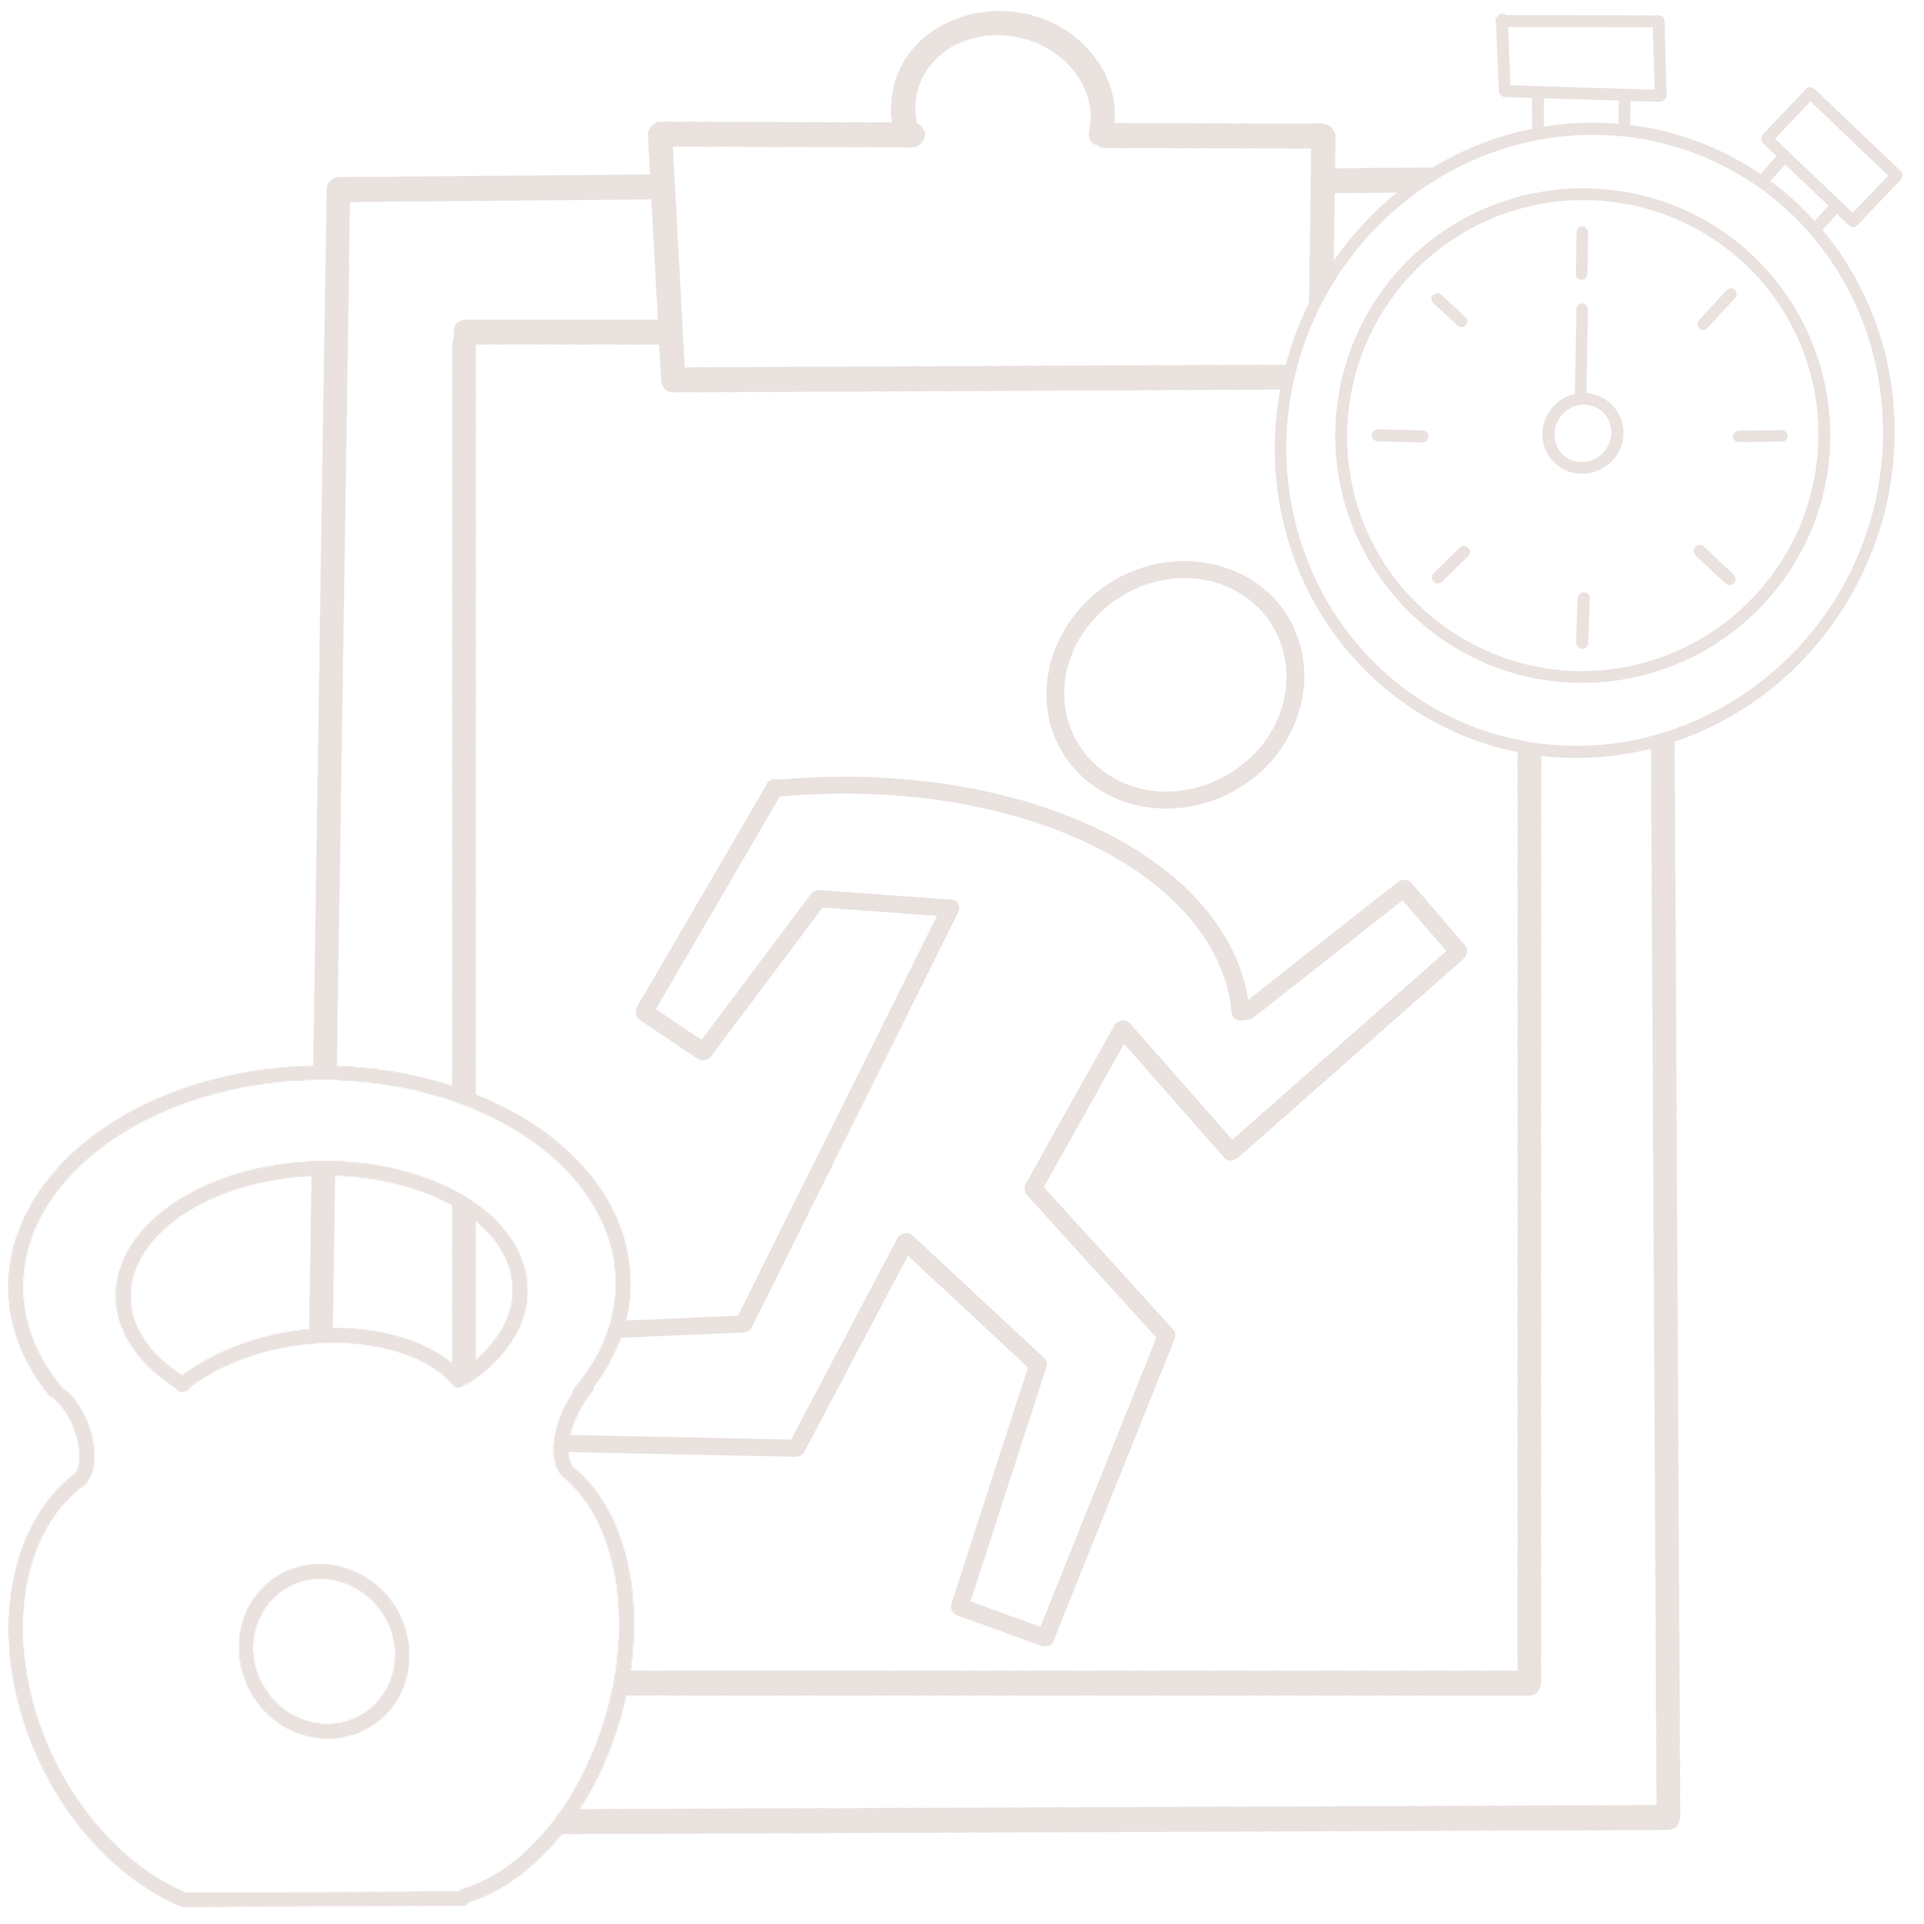
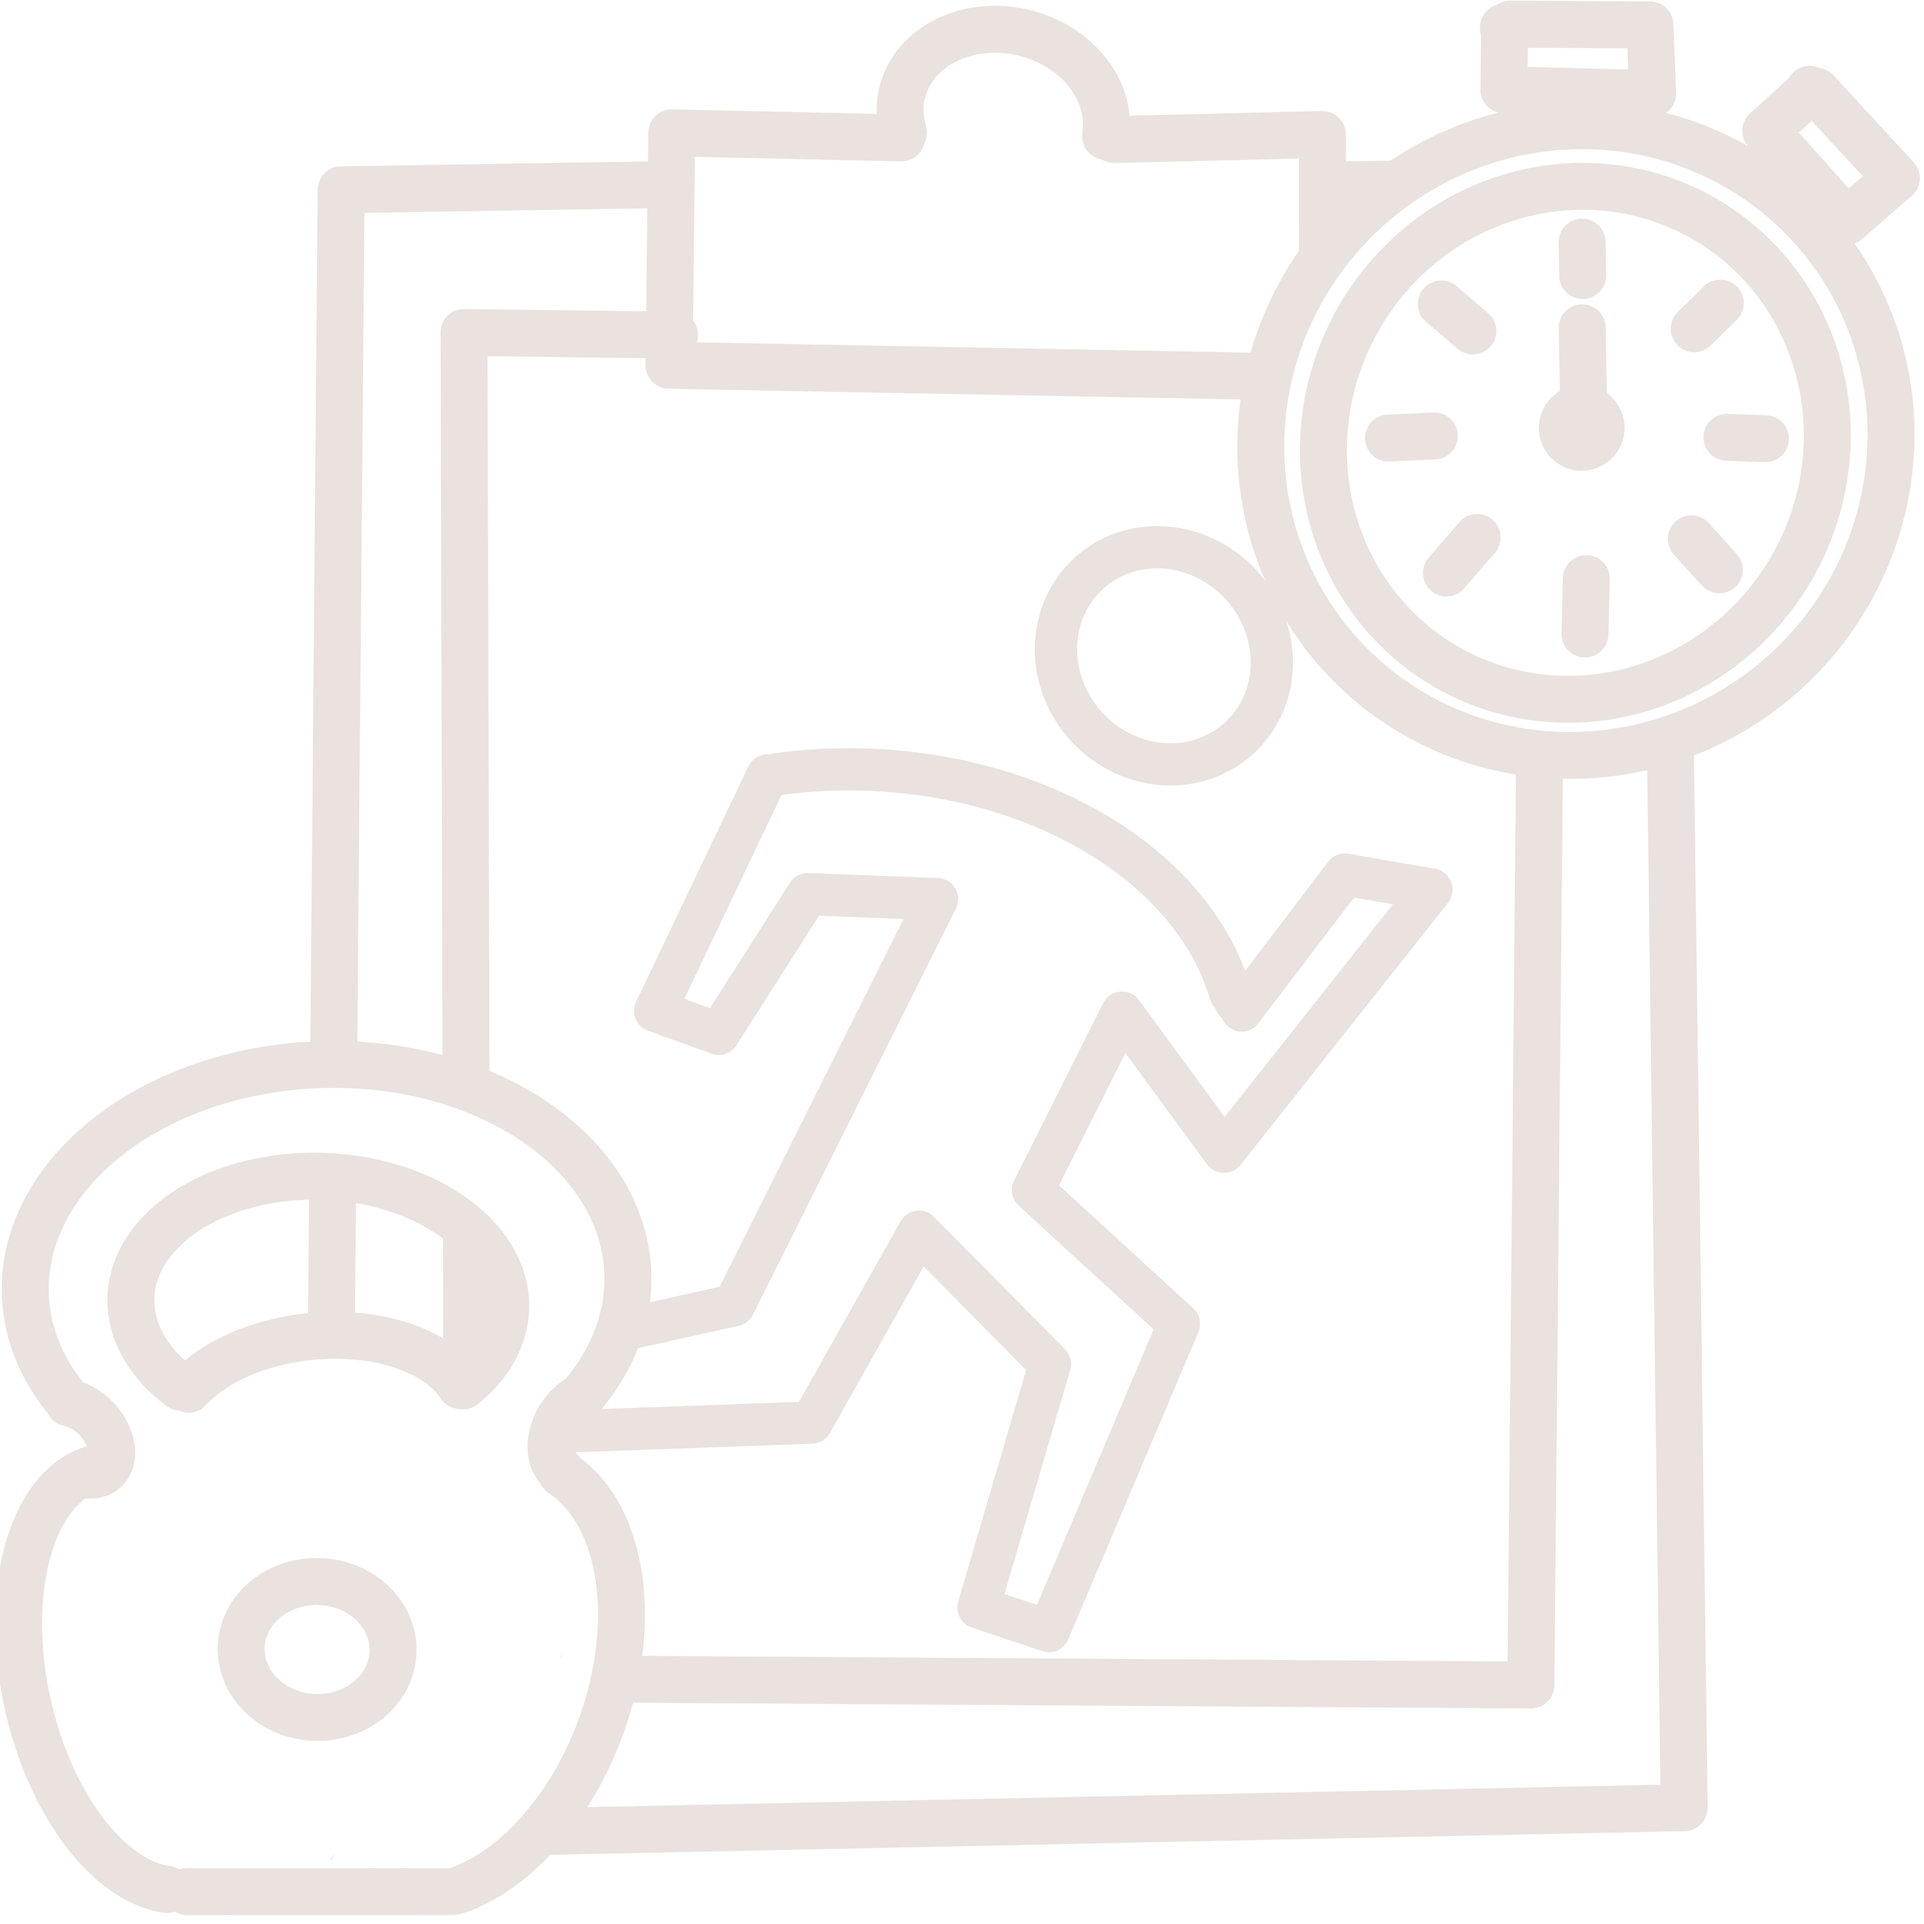
working on height of rows in column 1 of profile page

Changed region(s): [[0.0, 0.0, 1.0, 1.0], [0.0938, 0.8125, 0.2188, 0.9062]]

diff --git a/src/CSS/profile.css b/src/CSS/profile.css
@@ -5,15 +5,16 @@
 
 .profile-grid {
     display: grid;
-    grid-template-columns: minmax(0, 1fr) minmax(0, 1fr);
+    grid-template-columns: minmax(0, 1.4fr) minmax(0, 1fr);
     gap: 1.25rem;
+    align-items: start;
 }
 
 .profile-card {
     background: #ffffff;
     border-radius: 18px;
     padding: 1.5rem;
-    box-shadow: 0 20px 40px rgba(15, 23, 42, 0.1);
+    box-shadow: 0 20px 40px rgba(15, 23, 42, 0.1);;
 }
 
 .profile-card h2 {
@@ -30,6 +31,8 @@
 .profile-weekly-card {
     grid-column: 1;
     grid-row: 1;
+    height: auto; 
+    min-height: 0; 
 }
 
 .profile-tabs-card {
@@ -76,6 +79,7 @@
     margin: 0;
     display: grid;
     gap: 0.85rem;
+    max-height: 220px; overflow: auto;
 }
 
 .profile-summary-list dt,
